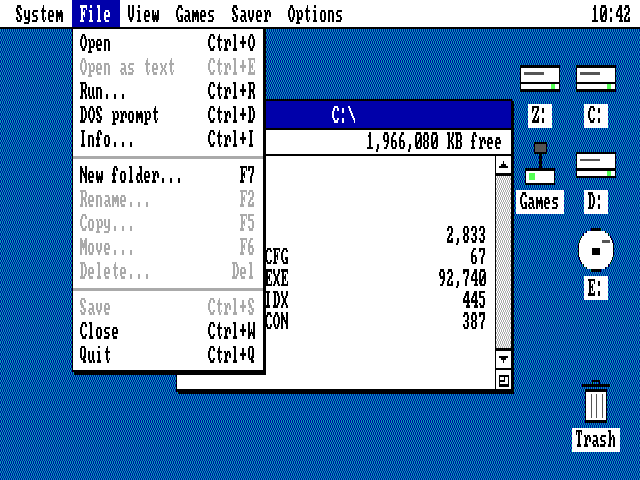
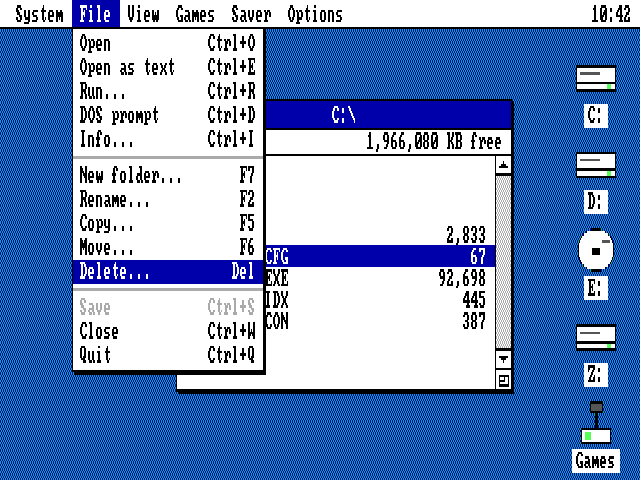
PetiteGUI 0.8.1: less flicker, no Trash
- Moving through a menu redraws only the two items that change; selecting
  a row redraws only the two rows; a redraw inside one window starts from
  that window instead of the desktop
- The Trash is gone (it did nothing); drive icons go five to a column

diff --git a/src/draw.c b/src/draw.c
@@ -218,36 +218,51 @@ void draw_menu(int mi)
 {
     const Menu *m = &A.menu[mi];
     Rect r = menu_box(mi);
-    int i, y, on, off, left = text_left(m);
-    const MenuItem *it;
-    uint8_t c;
+    int i;
 
     shadow(r.x, r.y, r.w, r.h);
     gfx_fill(r.x, r.y, r.w, r.h, T->menu_bg);
     gfx_frame(r.x, r.y, r.w, r.h, T->frame);
-    y = r.y + MENU_PAD;
-    for (i = 0; i < m->n; i++) {
-        it = &m->items[i];
-        if (it->flags & MI_SEP) {
-            if (T->separator < 0)
-                gfx_pattern(r.x + 1, y + SEP_H / 2, r.w - 2, 1, PAT_DOTS, T->frame, T->menu_bg);
-            else
-                hline(r.x + 1, y + SEP_H / 2, r.w - 2, (uint8_t)T->separator);
-            y += SEP_H;
-            continue;
-        }
-        off = (it->flags & MI_OFF) != 0;
-        on = i == A.hot && !off;
-        if (on)
-            gfx_fill(r.x + 1, y, r.w - 2, ROW_H + 1, T->sel);
-        c = on ? T->sel_text : T->menu_text;
-        if (it->flags & MI_CHECK)
-            gfx_mask(r.x + 6, y + 2, check_mask, ICON_ROWS - 1, 16, c);
-        text_dim(r.x + left, y + 1, it->label, off, c);
-        if (it->key)
-            text_dim(r.x + r.w - 8 - gfx_text_w(it->key), y + 1, it->key, off, c);
-        y += ROW_H + 1;
+    for (i = 0; i < m->n; i++)
+        draw_menu_item(mi, i);
+}
+
+/* The top of item i in a menu */
+static int item_y(const Menu *m, const Rect *r, int i)
+{
+    int k, y = r->y + MENU_PAD;
+
+    for (k = 0; k < i; k++)
+        y += (m->items[k].flags & MI_SEP) ? SEP_H : ROW_H + 1;
+    return y;
+}
+
+/* One item: moving the highlight redraws only the two items it leaves and reaches, not the
+ * whole menu (which would flash). */
+void draw_menu_item(int mi, int i)
+{
+    const Menu *m = &A.menu[mi];
+    Rect r = menu_box(mi);
+    const MenuItem *it = &m->items[i];
+    int y = item_y(m, &r, i), on, off, left = text_left(m);
+    uint8_t c;
+
+    if (it->flags & MI_SEP) {
+        if (T->separator < 0)
+            gfx_pattern(r.x + 1, y + SEP_H / 2, r.w - 2, 1, PAT_DOTS, T->frame, T->menu_bg);
+        else
+            hline(r.x + 1, y + SEP_H / 2, r.w - 2, (uint8_t)T->separator);
+        return;
     }
+    off = (it->flags & MI_OFF) != 0;
+    on = i == A.hot && !off;
+    gfx_fill(r.x + 1, y, r.w - 2, ROW_H + 1, on ? T->sel : T->menu_bg);
+    c = on ? T->sel_text : T->menu_text;
+    if (it->flags & MI_CHECK)
+        gfx_mask(r.x + 6, y + 2, check_mask, ICON_ROWS - 1, 16, c);
+    text_dim(r.x + left, y + 1, it->label, off, c);
+    if (it->key)
+        text_dim(r.x + r.w - 8 - gfx_text_w(it->key), y + 1, it->key, off, c);
 }
 
 int menu_item_at(int mi, int x, int y)
@@ -343,7 +358,7 @@ void draw_icon(int i)
         gfx_fill(x + w - 9, bt + pct(bh, 74), 4, imax(1, pct(bh, 14)), T->icon_led);
         hline(x + 4, bt + pct(bh, 30), pct(w, 50), T->icon_detail);
         break;
-    case ICON_GAMES: /* a joystick */
+    default: /* ICON_GAMES: a joystick */
         bx = x + pct(w, 12);
         bw = pct(w, 76);
         bt = y + pct(h, 60);
@@ -354,18 +369,6 @@ void draw_icon(int i)
         gfx_fill(x + w / 2 - 1, y + pct(h, 25), 3, bt - y - pct(h, 25), T->icon_line);
         gfx_fill(x + w / 2 - 6, y, 13, pct(h, 30), T->icon_detail);
         gfx_frame(x + w / 2 - 6, y, 13, pct(h, 30), T->icon_line);
-        break;
-    default:
-        gfx_fill(x + pct(w, 15), y + pct(h, 12), pct(w, 70), imax(1, pct(h, 8)), T->icon_line);
-        gfx_frame(x + pct(w, 40), y, pct(w, 20), pct(h, 14), T->icon_line);
-        bx = x + pct(w, 22);
-        bw = pct(w, 56);
-        bt = y + pct(h, 24);
-        bh = y + h - bt;
-        gfx_fill(bx, bt, bw, bh, T->icon_fill);
-        gfx_frame(bx, bt, bw, bh, T->icon_line);
-        for (k = 1; k < 4; k++)
-            vline(bx + pct(bw, k * 25), bt + 2, bh - 4, T->icon_detail);
         break;
     }
 
@@ -763,19 +766,30 @@ void draw_window(int i)
 void draw_desktop(const Rect *area)
 {
     Rect clip, r;
-    int k, i;
+    int k, i, first;
 
     gfx_set_clip(area);
     clip = gfx_get_clip();
     if (rect_empty(&clip))
         return;
-    gfx_pattern(clip.x, clip.y, clip.w, clip.h, PAT_CHECKER, T->desk_on, T->desk_off);
-    for (i = 0; i < A.nicons; i++) {
-        r = icon_bounds(i);
-        if (rect_intersect(&r, &r, &clip))
-            draw_icon(i);
+    /* If a window covers the whole area, start from it: drawing the desktop and the windows
+     * behind first only to cover them again would flash. */
+    for (first = NUM_WINS - 1; first >= 0; first--) {
+        i = A.z[first];
+        if (A.win[i].open && rect_intersect(&r, &A.win[i].r, &clip) && r.x == clip.x && r.y == clip.y &&
+            r.w == clip.w && r.h == clip.h)
+            break;
     }
-    for (k = 0; k < NUM_WINS; k++) {
+    if (first < 0) {
+        gfx_pattern(clip.x, clip.y, clip.w, clip.h, PAT_CHECKER, T->desk_on, T->desk_off);
+        for (i = 0; i < A.nicons; i++) {
+            r = icon_bounds(i);
+            if (rect_intersect(&r, &r, &clip))
+                draw_icon(i);
+        }
+        first = 0;
+    }
+    for (k = first; k < NUM_WINS; k++) {
         i = A.z[k];
         r = window_bounds(i);
         if (A.win[i].open && rect_intersect(&r, &r, &clip))

diff --git a/src/main.c b/src/main.c
@@ -174,14 +174,14 @@ static void sort_windows(void)
     }
 }
 
-/* An icon for each drive, then the games, in columns from the right; the trash below. */
+/* An icon for each drive, then the games, in columns of five from the right. */
 static void layout_icons(void)
 {
     Drive d[MAX_DRIVES];
     int n = drives_find(d), i, k = 0, col = 0, row = 0;
     Icon *ic;
 
-    for (i = 0; i < n && k < MAX_ICONS - 2; i++, k++) {
+    for (i = 0; i < n && k < MAX_ICONS - 1; i++, k++) {
         ic = &A.icon[k];
         sprintf(ic->label, "%c:", d[i].letter);
         ic->drive = d[i].letter;
@@ -194,17 +194,12 @@ static void layout_icons(void)
     for (i = 0; i < k; i++) {
         A.icon[i].x = SCREEN_W - 44 - col * 56;
         A.icon[i].y = MENU_H + 12 + row * 36;
-        if (++row >= (col == 0 ? 3 : 4)) { /* the first column leaves room for the trash */
+        if (++row >= 5) {
             row = 0;
             col++;
         }
     }
-    strcpy(A.icon[k].label, "Trash");
-    A.icon[k].kind = ICON_TRASH;
-    A.icon[k].drive = 0;
-    A.icon[k].x = SCREEN_W - 44;
-    A.icon[k].y = SCREEN_H - 42;
-    A.nicons = k + 1;
+    A.nicons = k;
     A.sel_icon = -1;
 }
 
@@ -460,11 +455,16 @@ static void close_menu(void)
 
 static void set_hot(int hot)
 {
-    if (hot == A.hot)
+    int old = A.hot;
+
+    if (hot == old)
         return;
     A.hot = hot;
     mouse_hide();
-    draw_menu(A.open_menu);
+    if (old >= 0)
+        draw_menu_item(A.open_menu, old);
+    if (hot >= 0)
+        draw_menu_item(A.open_menu, hot);
     mouse_show();
 }
 
@@ -568,10 +568,20 @@ static void close_window(int i)
         redraw_window(f); /* now active */
 }
 
+/* A list row's rectangle in window i (clipped to the list when it's drawn) */
+static Rect row_rect(int i, const WinParts *p, int k)
+{
+    return rect_make(p->list.x, p->list.y + 1 + (k - A.win[i].top) * ROW_H, p->list.w, ROW_H);
+}
+
+/* Select a row, scrolling to it. Unless the list scrolls, only the two rows that change are
+ * redrawn, not the window (which would flash). */
 static void select_row(int i, int k)
 {
     Win *w = &A.win[i];
     WinParts p;
+    int old = w->sel, top = w->top;
+    Rect r;
 
     if (k < 0 || k >= w->nrows)
         return;
@@ -581,7 +591,16 @@ static void select_row(int i, int k)
         w->top = k;
     if (k >= w->top + p.visible)
         w->top = k - p.visible + 1;
-    redraw_window(i);
+    if (w->top != top || front_window() != i || w->kind == WIN_EDIT) {
+        redraw_window(i);
+        return;
+    }
+    if (old >= 0 && old != k && old - w->top >= 0 && old - w->top <= p.visible) {
+        r = row_rect(i, &p, old);
+        redraw(&r);
+    }
+    r = row_rect(i, &p, k);
+    redraw(&r);
 }
 
 static void scroll_by(int i, int d)
@@ -915,8 +934,6 @@ static void open_icon(int i)
         open_games();
     else if (A.icon[i].drive)
         open_drive(A.icon[i].drive);
-    else
-        show_alert("The trash is empty.", "", "OK", NULL, CMD_NONE);
 }
 
 /* ---- Directory windows ---- */
@@ -2291,6 +2308,7 @@ static int shot(int scene, const char *path)
 
     draw_desktop(&FULL);
     if (scene == 1) {
+        select_row(1, find_row(1, "PETITE.CFG")); /* so Delete is there to highlight */
         open_menu(FILE_MENU);
         set_hot(FILE_DELETE);
     } else if (scene == 2) {

diff --git a/src/app.h b/src/app.h
@@ -22,7 +22,7 @@
 #define MAX_ROWS 160 /* files a directory window lists */
 #define DIR_WINS 4     /* folder windows: 0 to 3 */
 #define NUM_WINS 6
-#define MAX_ICONS 28   /* a drive each, the games and the trash */
+#define MAX_ICONS 27   /* a drive each, and the games */
 #define NUM_MENUS 6    /* on the menu bar */
 #define CONTEXT_MENU NUM_MENUS /* the right-click menu, after them */
 #define GAMES_WIN 4    /* the games list's window */
@@ -58,7 +58,7 @@ typedef struct WinParts {
     int visible; /* list rows that fit */
 } WinParts;
 
-enum { ICON_FLOPPY, ICON_DISK, ICON_CDROM, ICON_NETWORK, ICON_GAMES, ICON_TRASH };
+enum { ICON_FLOPPY, ICON_DISK, ICON_CDROM, ICON_NETWORK, ICON_GAMES };
 
 typedef struct Icon {
     char label[8];
@@ -140,6 +140,7 @@ Rect icon_bounds(int i);            /* icon and label */
 void draw_icon(int i);
 Rect menu_rect(int m);              /* with its shadow */
 void draw_menu(int m);
+void draw_menu_item(int m, int i);
 int menu_title_at(int x, int y);
 int menu_item_at(int m, int x, int y);
 void alert_layout(void);

diff --git a/src/version.h b/src/version.h
@@ -2,6 +2,6 @@
 #define VERSION_H
 
 /* SemVer: bump it with every change, with an entry in CHANGELOG.md. */
-#define PETITE_VERSION "0.8.0"
+#define PETITE_VERSION "0.8.1"
 
 #endif

diff --git a/docs/design.md b/docs/design.md
@@ -53,6 +53,8 @@ The system BIOS keeps an 8×8 font for characters 0–127 at `F000:FA6E`, on eve
 
 There's no off-screen buffer. When something changes, `redraw()` draws the rectangle that changed, back to front, clipped to it: the desktop pattern, the icons, the windows in z-order, the menu bar. A window moving redraws where it was and where it is.
 
+What's drawn is kept to what changed, so the screen doesn't flash while it's covered and drawn again: if one window covers the whole rectangle, drawing starts from that window; selecting a row redraws the old and new rows; moving through a menu redraws the item left and the item reached.
+
 Menus and alerts are different: they **save the pixels under them** (`gfx_save`) and put them back when they close, which is faster and needs no redraw of what's beneath. Paper's File menu, with its shadow, is about 1.9 KB; Ink's, in four planes, about 7.5 KB.
 
 Dragging a window draws an XOR outline (drawn twice, it leaves the screen as it was), and only moves the window when the button is let go. Resizing works the same way from the size box: the outline's bottom-right corner follows the pointer, kept within `rect_resize`'s limits (no smaller than 176 x 72, on the screen, a whole number of bytes wide). A zoomed window remembers its size and place, to go back to.
@@ -83,7 +85,7 @@ If a program leaves something resident (a TSR from a `before:` line, say) in the
 
 ## Drives
 
-`drives.c` finds the drives without reading any: DOS's filename parser (`INT 21h` function 29h) rejects a letter that isn't a drive, from its tables alone; MSCDEX (`INT 2Fh` AX=150Bh) knows its CD-ROMs; IOCTL calls (`INT 21h` AX=4409h, 4408h) say whether a drive is remote or removable. DOS answers for B: even with one floppy drive (it's A: again, asking for disks to be swapped), so B: shows only when the BIOS's equipment word (`INT 11h`) says there are two. The icons go in columns from the right, three in the first (above the trash) and four in the others.
+`drives.c` finds the drives without reading any: DOS's filename parser (`INT 21h` function 29h) rejects a letter that isn't a drive, from its tables alone; MSCDEX (`INT 2Fh` AX=150Bh) knows its CD-ROMs; IOCTL calls (`INT 21h` AX=4409h, 4408h) say whether a drive is remote or removable. DOS answers for B: even with one floppy drive (it's A: again, asking for disks to be swapped), so B: shows only when the BIOS's equipment word (`INT 11h`) says there are two. The icons go in columns of five from the right.
 
 There are four folder windows. A drive's icon brings up the window already showing it, else a closed one, else the one furthest back, which moves to that drive.
 

diff --git a/CHANGELOG.md b/CHANGELOG.md
@@ -2,6 +2,16 @@
 
 All notable changes, in the [Keep a Changelog](https://keepachangelog.com/en/1.1.0/) format. Versions follow [SemVer](https://semver.org/).
 
+## [0.8.1] - 2026-11-26
+
+### Changed
+
+- **Less flicker.** Moving through a menu redraws only the two items the highlight leaves and reaches, not the whole menu; selecting a row redraws only the two rows that change, not the window; and any redraw that falls inside one window starts from that window, rather than drawing the desktop and the windows behind it first, only to cover them. All of it is less drawing, so it's quicker too.
+
+### Removed
+
+- **The Trash.** It did nothing (deleting doesn't keep anything to get back); the drive icons now go five to a column.
+
 ## [0.8.0] - 2026-11-26
 
 Looking after files: the second step of the [roadmap](ROADMAP.md).
@@ -141,6 +151,7 @@ The basics, in two looks.
 - `tools/check-changelog.sh`, run by CI on every push and pull request: the version is SemVer, this changelog has a dated section for it, and a change to what's built bumps the version and adds to the changelog.
 - Badges in the README: build, release, latest version, SemVer, changelog, licence.
 
+[0.8.1]: https://github.com/MaverickUK/PetiteGUI/releases/tag/v0.8.1
 [0.8.0]: https://github.com/MaverickUK/PetiteGUI/releases/tag/v0.8.0
 [0.7.0]: https://github.com/MaverickUK/PetiteGUI/releases/tag/v0.7.0
 [0.6.0]: https://github.com/MaverickUK/PetiteGUI/releases/tag/v0.6.0
